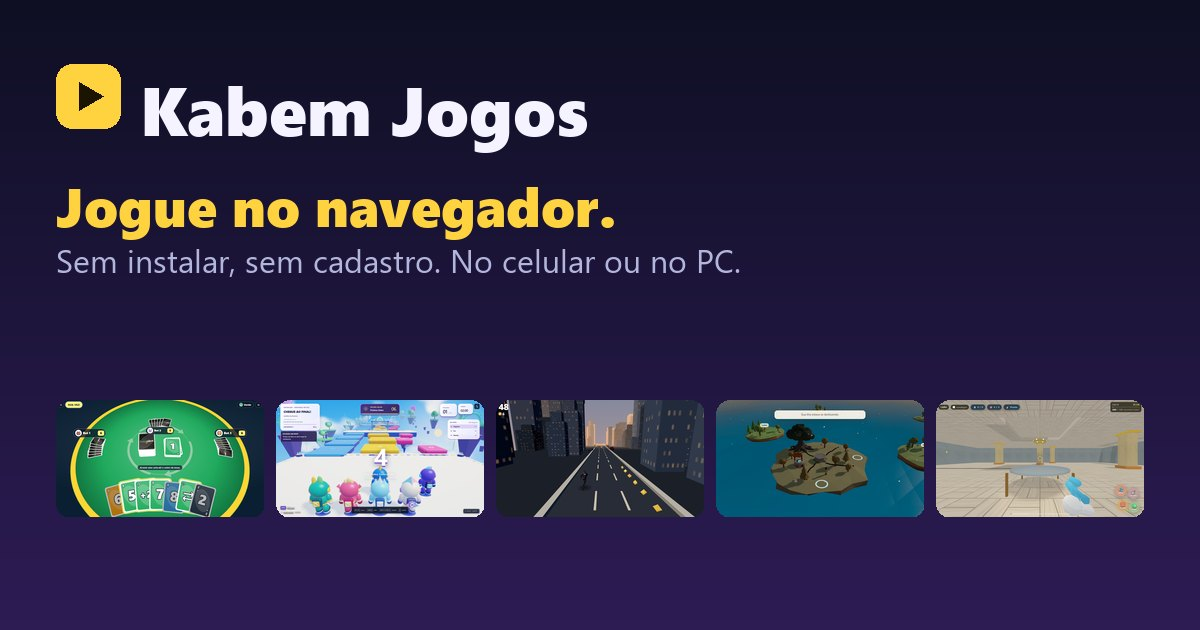
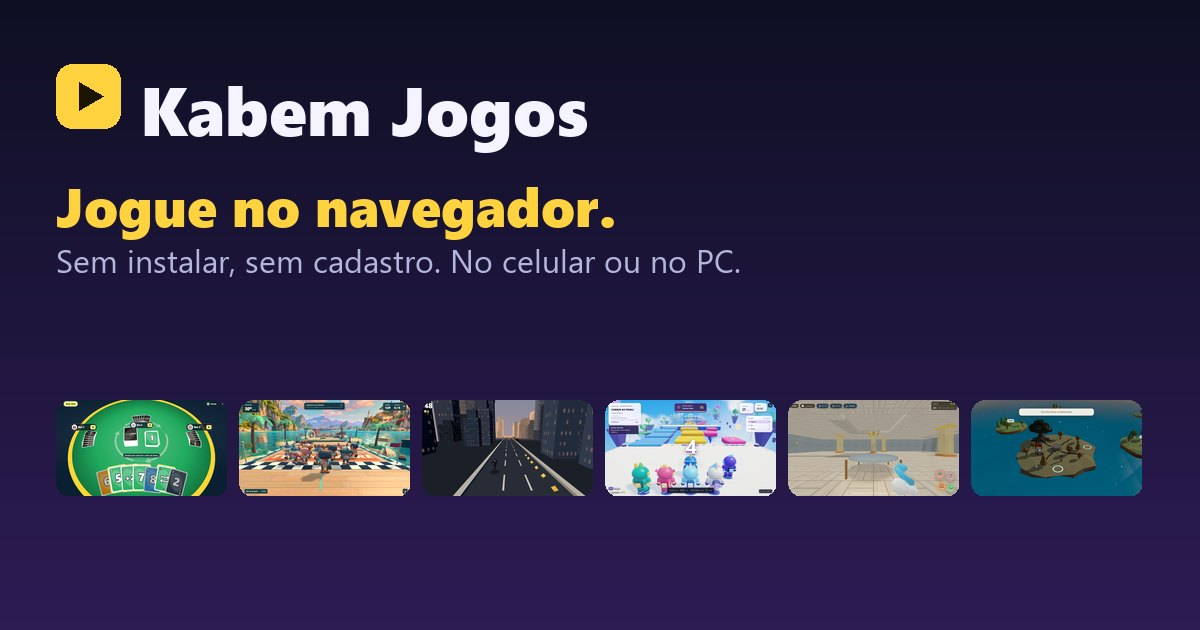
feat: adiciona o Turbo Maré à vitrine
Novo cartão (corrida 3D, solo contra bots ou sala online de até 6) com imagem
de partida. O jogo continua hospedado no GitHub Pages. A ordem passa a ter o
Turbo Maré em segundo lugar, e o último cartão ocupa a linha inteira quando
sobra sozinho. A prévia de compartilhamento ganha a sexta miniatura.

Changed region(s): [[0.0308, 0.6333, 0.9558, 0.8444]]

diff --git a/index.html b/index.html
@@ -25,7 +25,7 @@
 <meta name="twitter:title" content="Kabem Jogos — jogue no navegador, sem instalar e sem cadastro">
 <meta name="twitter:description" content="Jogos de navegador em português: cartas, corrida, aventura e esconde-esconde em 3D. Toque e jogue em segundos, no celular ou no PC, sem instalar e sem cadastro.">
 <meta name="twitter:image" content="https://jogos.kabemmanager.online/img/og.jpg">
-<script type="application/ld+json">{"@context":"https://schema.org","@graph":[{"@type":"WebSite","@id":"https://jogos.kabemmanager.online/#site","name":"Kabem Jogos","url":"https://jogos.kabemmanager.online/","description":"Jogos de navegador em português: cartas, corrida, aventura e esconde-esconde em 3D. Toque e jogue em segundos, no celular ou no PC, sem instalar e sem cadastro.","inLanguage":"pt-BR"},{"@type":"ItemList","name":"Jogos disponíveis","itemListElement":[{"@type":"ListItem","position":1,"item":{"@type":"VideoGame","name":"Kabemjunto","description":"Jogo de cartas com temática brasileira para 2 a 10 jogadores. Descarte todas as cartas antes dos outros, acumule ataques, use o Silêncio do 7 e intercepte a jogada de alguém com uma carta idêntica (Corta-Frente). Jogue contra bots agora ou crie uma sala online.","url":"https://kabemjunto.kabemmanager.online/","image":"https://jogos.kabemmanager.online/img/kabemjunto.webp","genre":["Cartas","Multijogador"],"inLanguage":"pt-BR","applicationCategory":"Game","operatingSystem":"Navegador (web)","gamePlatform":"Navegador (web)","playMode":["SinglePlayer","MultiPlayer"]}},{"@type":"ListItem","position":2,"item":{"@type":"VideoGame","name":"Circuito das Fendas","description":"Corra por 12 checkpoints, escolha entre três rotas, desvie dos obstáculos e alterne entre os estados Solar e Lunar. Dispute contra bots ou online e suba no ranking.","url":"https://jogo.kabemmanager.online/","image":"https://jogos.kabemmanager.online/img/fendas.webp","genre":["Corrida","Plataforma","Multijogador"],"inLanguage":"pt-BR","applicationCategory":"Game","operatingSystem":"Navegador (web)","gamePlatform":"Navegador (web)","playMode":["SinglePlayer","MultiPlayer"]}},{"@type":"ListItem","position":3,"item":{"@type":"VideoGame","name":"Corrida Sem Fim","description":"Corredor infinito em 3D feito para celular: deslize para trocar de pista, pule, role por baixo dos obstáculos e colete moedas desviando dos carros.","url":"https://corrida.kabemmanager.online/","image":"https://jogos.kabemmanager.online/img/corrida.webp","genre":["Corredor infinito","Ação"],"inLanguage":"pt-BR","applicationCategory":"Game","operatingSystem":"Navegador (web)","gamePlatform":"Navegador (web)","playMode":["SinglePlayer"]}},{"@type":"ListItem","position":4,"item":{"@type":"VideoGame","name":"Raízes Cruzadas","description":"Jogo educacional em 3D, para um jogador, sobre por que amar a Deus sobre todas as coisas. Leve água a quem não pode retribuir, escolha o que fica no centro da sua ilha e descubra o que sempre correu por baixo de todas elas. Tema cristão.","url":"https://raizes.kabemmanager.online/","image":"https://jogos.kabemmanager.online/img/raizes.webp","genre":["Aventura","Educacional"],"inLanguage":"pt-BR","applicationCategory":"Game","operatingSystem":"Navegador (web)","gamePlatform":"Navegador (web)","playMode":["SinglePlayer"]}},{"@type":"ListItem","position":5,"item":{"@type":"VideoGame","name":"Esconde ou Morre","description":"Como Camaleão, grude nas superfícies e pinte o corpo com a cor do ambiente para sobreviver ao Caçador. Como Caçador, procure os Camaleões com lanterna, arma de água e Scanner. No modo Online, a sala espera jogadores por 30 segundos e completa as vagas com IA.","url":"https://esconde.kabemmanager.online/","image":"https://jogos.kabemmanager.online/img/esconde.webp","genre":["Esconde-esconde","Ação","Multijogador"],"inLanguage":"pt-BR","applicationCategory":"Game","operatingSystem":"Navegador (web)","gamePlatform":"Navegador (web)","playMode":["SinglePlayer","MultiPlayer"]}}]}]}</script>
+<script type="application/ld+json">{"@context":"https://schema.org","@graph":[{"@type":"WebSite","@id":"https://jogos.kabemmanager.online/#site","name":"Kabem Jogos","url":"https://jogos.kabemmanager.online/","description":"Jogos de navegador em português: cartas, corrida, aventura e esconde-esconde em 3D. Toque e jogue em segundos, no celular ou no PC, sem instalar e sem cadastro.","inLanguage":"pt-BR"},{"@type":"ItemList","name":"Jogos disponíveis","itemListElement":[{"@type":"ListItem","position":1,"item":{"@type":"VideoGame","name":"Kabemjunto","description":"Jogo de cartas com temática brasileira para 2 a 10 jogadores. Descarte todas as cartas antes dos outros, acumule ataques, use o Silêncio do 7 e intercepte a jogada de alguém com uma carta idêntica (Corta-Frente). Jogue contra bots agora ou crie uma sala online.","url":"https://kabemjunto.kabemmanager.online/","image":"https://jogos.kabemmanager.online/img/kabemjunto.webp","genre":["Cartas","Multijogador"],"inLanguage":"pt-BR","applicationCategory":"Game","operatingSystem":"Navegador (web)","gamePlatform":"Navegador (web)","playMode":["SinglePlayer","MultiPlayer"]}},{"@type":"ListItem","position":2,"item":{"@type":"VideoGame","name":"Turbo Maré","description":"Corrida 3D pelo Circuito do Kraken: dez pilotos largam em um píer tropical e os seis primeiros a cruzar a linha em até 90 segundos se classificam. Pule, mergulhe, pegue os anéis de turbo, escolha entre Lontra, Tubarão, Axolote ou Marujo e chame amigos para uma sala online na Copa das Marés.","url":"https://alexandremocmg.github.io/turbo_mare/","image":"https://jogos.kabemmanager.online/img/turbo.webp","genre":["Corrida","Ação","Multijogador"],"inLanguage":"pt-BR","applicationCategory":"Game","operatingSystem":"Navegador (web)","gamePlatform":"Navegador (web)","playMode":["SinglePlayer","MultiPlayer"]}},{"@type":"ListItem","position":3,"item":{"@type":"VideoGame","name":"Corrida Sem Fim","description":"Corredor infinito em 3D feito para celular: deslize para trocar de pista, pule, role por baixo dos obstáculos e colete moedas desviando dos carros.","url":"https://corrida.kabemmanager.online/","image":"https://jogos.kabemmanager.online/img/corrida.webp","genre":["Corredor infinito","Ação"],"inLanguage":"pt-BR","applicationCategory":"Game","operatingSystem":"Navegador (web)","gamePlatform":"Navegador (web)","playMode":["SinglePlayer"]}},{"@type":"ListItem","position":4,"item":{"@type":"VideoGame","name":"Circuito das Fendas","description":"Corra por 12 checkpoints, escolha entre três rotas, desvie dos obstáculos e alterne entre os estados Solar e Lunar. Dispute contra bots ou online e suba no ranking.","url":"https://jogo.kabemmanager.online/","image":"https://jogos.kabemmanager.online/img/fendas.webp","genre":["Corrida","Plataforma","Multijogador"],"inLanguage":"pt-BR","applicationCategory":"Game","operatingSystem":"Navegador (web)","gamePlatform":"Navegador (web)","playMode":["SinglePlayer","MultiPlayer"]}},{"@type":"ListItem","position":5,"item":{"@type":"VideoGame","name":"Esconde ou Morre","description":"Como Camaleão, grude nas superfícies e pinte o corpo com a cor do ambiente para sobreviver ao Caçador. Como Caçador, procure os Camaleões com lanterna, arma de água e Scanner. No modo Online, a sala espera jogadores por 30 segundos e completa as vagas com IA.","url":"https://esconde.kabemmanager.online/","image":"https://jogos.kabemmanager.online/img/esconde.webp","genre":["Esconde-esconde","Ação","Multijogador"],"inLanguage":"pt-BR","applicationCategory":"Game","operatingSystem":"Navegador (web)","gamePlatform":"Navegador (web)","playMode":["SinglePlayer","MultiPlayer"]}},{"@type":"ListItem","position":6,"item":{"@type":"VideoGame","name":"Raízes Cruzadas","description":"Jogo educacional em 3D, para um jogador, sobre por que amar a Deus sobre todas as coisas. Leve água a quem não pode retribuir, escolha o que fica no centro da sua ilha e descubra o que sempre correu por baixo de todas elas. Tema cristão.","url":"https://raizes.kabemmanager.online/","image":"https://jogos.kabemmanager.online/img/raizes.webp","genre":["Aventura","Educacional"],"inLanguage":"pt-BR","applicationCategory":"Game","operatingSystem":"Navegador (web)","gamePlatform":"Navegador (web)","playMode":["SinglePlayer"]}}]}]}</script>
 <style>
 :root{--bg:#0e0f23;--sup:#171a38;--sup2:#1f2347;--texto:#f4f3ff;--mudo:#b3b6dc;--amarelo:#ffd23f;--tinta:#1b1400;--verde:#2bd48a;--linha:rgba(255,255,255,.1);--raio:20px}
 *{box-sizing:border-box}
@@ -80,9 +80,9 @@ footer{padding:26px 0 40px;color:var(--mudo);font-size:.88rem}
 .aviso{position:fixed;left:50%;bottom:22px;transform:translate(-50%,20px);opacity:0;padding:12px 18px;border-radius:12px;background:#fff;color:#111;font-weight:700;box-shadow:0 10px 30px rgba(0,0,0,.4);transition:.25s;pointer-events:none}
 .aviso.ver{opacity:1;transform:translate(-50%,0)}
 @media(min-width:880px){
- .destaque{grid-column:1/-1;flex-direction:row}
- .destaque .capa{flex:1.15;aspect-ratio:auto;min-height:340px}
- .destaque .corpo{flex:1;justify-content:center;padding:26px 28px}
+ .destaque,.grade>.cartao:last-child:nth-child(even){grid-column:1/-1;flex-direction:row}
+ .destaque .capa,.grade>.cartao:last-child:nth-child(even) .capa{flex:1.15;aspect-ratio:auto;min-height:340px}
+ .destaque .corpo,.grade>.cartao:last-child:nth-child(even) .corpo{flex:1;justify-content:center;padding:26px 28px}
  .destaque h3{font-size:2rem}
  .destaque .desc{font-size:1.02rem}
 }
@@ -139,23 +139,23 @@ footer{padding:26px 0 40px;color:var(--mudo);font-size:.88rem}
           </div>
         </div>
       </article>
-      <article class="cartao" id="fendas">
-        <a class="capa" href="https://jogo.kabemmanager.online/" aria-label="Jogar Circuito das Fendas" tabindex="-1">
-          <img src="img/fendas.webp" alt="Largada do Circuito das Fendas: cinco personagens coloridos diante de uma pista flutuante, com a contagem 4" width="800" height="450" fetchpriority="high">
+      <article class="cartao" id="turbo">
+        <a class="capa" href="https://alexandremocmg.github.io/turbo_mare/" aria-label="Jogar Turbo Maré" tabindex="-1">
+          <img src="img/turbo.webp" alt="Dez pilotos na linha de largada de um píer tropical, com palmeiras, ilhas e um farol ao fundo" width="800" height="450" fetchpriority="high">
         </a>
         <div class="corpo">
-          <div class="etiquetas"><span class="modo">Contra bots</span><span class="modo">Online</span><span class="selo">Beta</span></div>
-          <h3>Circuito das Fendas</h3>
-          <p class="gancho">Uma corrida de 120 segundos por um festival interdimensional.</p>
-          <p class="desc">Corra por 12 checkpoints, escolha entre três rotas, desvie dos obstáculos e alterne entre os estados Solar e Lunar. Dispute contra bots ou online e suba no ranking.</p>
+          <div class="etiquetas"><span class="modo">Contra bots</span><span class="modo">Online</span></div>
+          <h3>Turbo Maré</h3>
+          <p class="gancho">Pegue os anéis de turbo e escape dos tentáculos.</p>
+          <p class="desc">Corrida 3D pelo Circuito do Kraken: dez pilotos largam em um píer tropical e os seis primeiros a cruzar a linha em até 90 segundos se classificam. Pule, mergulhe, pegue os anéis de turbo, escolha entre Lontra, Tubarão, Axolote ou Marujo e chame amigos para uma sala online na Copa das Marés.</p>
           <ul class="meta">
-            <li><svg class="ic" viewBox="0 0 24 24" width="18" height="18" aria-hidden="true" focusable="false"><path d="M16 11a3 3 0 1 0-6 0 3 3 0 0 0 6 0ZM6 20a6 6 0 0 1 12 0" fill="none" stroke="currentColor" stroke-width="1.8" stroke-linecap="round" stroke-linejoin="round"/></svg>Até 6 na pista</li>
-            <li><svg class="ic" viewBox="0 0 24 24" width="18" height="18" aria-hidden="true" focusable="false"><path d="M12 7v5l3 2M12 3a9 9 0 1 0 0 18 9 9 0 0 0 0-18Z" fill="none" stroke="currentColor" stroke-width="1.8" stroke-linecap="round" stroke-linejoin="round"/></svg>120 s por corrida</li>
-            <li><svg class="ic" viewBox="0 0 24 24" width="18" height="18" aria-hidden="true" focusable="false"><path d="M8 3h8a1 1 0 0 1 1 1v16a1 1 0 0 1-1 1H8a1 1 0 0 1-1-1V4a1 1 0 0 1 1-1ZM11 18h2" fill="none" stroke="currentColor" stroke-width="1.8" stroke-linecap="round" stroke-linejoin="round"/></svg>PC (teclado)</li>
+            <li><svg class="ic" viewBox="0 0 24 24" width="18" height="18" aria-hidden="true" focusable="false"><path d="M16 11a3 3 0 1 0-6 0 3 3 0 0 0 6 0ZM6 20a6 6 0 0 1 12 0" fill="none" stroke="currentColor" stroke-width="1.8" stroke-linecap="round" stroke-linejoin="round"/></svg>1 a 6 jogadores</li>
+            <li><svg class="ic" viewBox="0 0 24 24" width="18" height="18" aria-hidden="true" focusable="false"><path d="M12 7v5l3 2M12 3a9 9 0 1 0 0 18 9 9 0 0 0 0-18Z" fill="none" stroke="currentColor" stroke-width="1.8" stroke-linecap="round" stroke-linejoin="round"/></svg>90 s por corrida</li>
+            <li><svg class="ic" viewBox="0 0 24 24" width="18" height="18" aria-hidden="true" focusable="false"><path d="M8 3h8a1 1 0 0 1 1 1v16a1 1 0 0 1-1 1H8a1 1 0 0 1-1-1V4a1 1 0 0 1 1-1ZM11 18h2" fill="none" stroke="currentColor" stroke-width="1.8" stroke-linecap="round" stroke-linejoin="round"/></svg>Celular e PC</li>
           </ul>
           <div class="acoes">
-            <a class="jogar" href="https://jogo.kabemmanager.online/">Jogar Circuito das Fendas</a>
-            <button class="compartilhar" type="button" hidden data-nome="Circuito das Fendas" data-gancho="Uma corrida de 120 segundos por um festival interdimensional." data-url="https://jogo.kabemmanager.online/">Compartilhar</button>
+            <a class="jogar" href="https://alexandremocmg.github.io/turbo_mare/">Jogar Turbo Maré</a>
+            <button class="compartilhar" type="button" hidden data-nome="Turbo Maré" data-gancho="Pegue os anéis de turbo e escape dos tentáculos." data-url="https://alexandremocmg.github.io/turbo_mare/">Compartilhar</button>
           </div>
         </div>
       </article>
@@ -179,23 +179,23 @@ footer{padding:26px 0 40px;color:var(--mudo);font-size:.88rem}
           </div>
         </div>
       </article>
-      <article class="cartao" id="raizes">
-        <a class="capa" href="https://raizes.kabemmanager.online/" aria-label="Jogar Raízes Cruzadas" tabindex="-1">
-          <img src="img/raizes.webp" alt="Uma ilha flutuante com uma árvore escura, um poço e um personagem, cercada por outras ilhas" width="800" height="450" loading="lazy" decoding="async">
+      <article class="cartao" id="fendas">
+        <a class="capa" href="https://jogo.kabemmanager.online/" aria-label="Jogar Circuito das Fendas" tabindex="-1">
+          <img src="img/fendas.webp" alt="Largada do Circuito das Fendas: cinco personagens coloridos diante de uma pista flutuante, com a contagem 4" width="800" height="450" loading="lazy" decoding="async">
         </a>
         <div class="corpo">
-          <div class="etiquetas"><span class="modo">Solo</span></div>
-          <h3>Raízes Cruzadas</h3>
-          <p class="gancho">Uma aventura sobre o que ocupa o centro da sua ilha.</p>
-          <p class="desc">Jogo educacional em 3D, para um jogador, sobre por que amar a Deus sobre todas as coisas. Leve água a quem não pode retribuir, escolha o que fica no centro da sua ilha e descubra o que sempre correu por baixo de todas elas. Tema cristão.</p>
+          <div class="etiquetas"><span class="modo">Contra bots</span><span class="modo">Online</span><span class="selo">Beta</span></div>
+          <h3>Circuito das Fendas</h3>
+          <p class="gancho">Uma corrida de 120 segundos por um festival interdimensional.</p>
+          <p class="desc">Corra por 12 checkpoints, escolha entre três rotas, desvie dos obstáculos e alterne entre os estados Solar e Lunar. Dispute contra bots ou online e suba no ranking.</p>
           <ul class="meta">
-            <li><svg class="ic" viewBox="0 0 24 24" width="18" height="18" aria-hidden="true" focusable="false"><path d="M16 11a3 3 0 1 0-6 0 3 3 0 0 0 6 0ZM6 20a6 6 0 0 1 12 0" fill="none" stroke="currentColor" stroke-width="1.8" stroke-linecap="round" stroke-linejoin="round"/></svg>1 jogador</li>
-            <li><svg class="ic" viewBox="0 0 24 24" width="18" height="18" aria-hidden="true" focusable="false"><path d="M12 7v5l3 2M12 3a9 9 0 1 0 0 18 9 9 0 0 0 0-18Z" fill="none" stroke="currentColor" stroke-width="1.8" stroke-linecap="round" stroke-linejoin="round"/></svg>15 a 20 min</li>
-            <li><svg class="ic" viewBox="0 0 24 24" width="18" height="18" aria-hidden="true" focusable="false"><path d="M8 3h8a1 1 0 0 1 1 1v16a1 1 0 0 1-1 1H8a1 1 0 0 1-1-1V4a1 1 0 0 1 1-1ZM11 18h2" fill="none" stroke="currentColor" stroke-width="1.8" stroke-linecap="round" stroke-linejoin="round"/></svg>Celular e PC</li>
+            <li><svg class="ic" viewBox="0 0 24 24" width="18" height="18" aria-hidden="true" focusable="false"><path d="M16 11a3 3 0 1 0-6 0 3 3 0 0 0 6 0ZM6 20a6 6 0 0 1 12 0" fill="none" stroke="currentColor" stroke-width="1.8" stroke-linecap="round" stroke-linejoin="round"/></svg>Até 6 na pista</li>
+            <li><svg class="ic" viewBox="0 0 24 24" width="18" height="18" aria-hidden="true" focusable="false"><path d="M12 7v5l3 2M12 3a9 9 0 1 0 0 18 9 9 0 0 0 0-18Z" fill="none" stroke="currentColor" stroke-width="1.8" stroke-linecap="round" stroke-linejoin="round"/></svg>120 s por corrida</li>
+            <li><svg class="ic" viewBox="0 0 24 24" width="18" height="18" aria-hidden="true" focusable="false"><path d="M8 3h8a1 1 0 0 1 1 1v16a1 1 0 0 1-1 1H8a1 1 0 0 1-1-1V4a1 1 0 0 1 1-1ZM11 18h2" fill="none" stroke="currentColor" stroke-width="1.8" stroke-linecap="round" stroke-linejoin="round"/></svg>PC (teclado)</li>
           </ul>
           <div class="acoes">
-            <a class="jogar" href="https://raizes.kabemmanager.online/">Jogar Raízes Cruzadas</a>
-            <button class="compartilhar" type="button" hidden data-nome="Raízes Cruzadas" data-gancho="Uma aventura sobre o que ocupa o centro da sua ilha." data-url="https://raizes.kabemmanager.online/">Compartilhar</button>
+            <a class="jogar" href="https://jogo.kabemmanager.online/">Jogar Circuito das Fendas</a>
+            <button class="compartilhar" type="button" hidden data-nome="Circuito das Fendas" data-gancho="Uma corrida de 120 segundos por um festival interdimensional." data-url="https://jogo.kabemmanager.online/">Compartilhar</button>
           </div>
         </div>
       </article>
@@ -216,6 +216,26 @@ footer{padding:26px 0 40px;color:var(--mudo);font-size:.88rem}
           <div class="acoes">
             <a class="jogar" href="https://esconde.kabemmanager.online/">Jogar Esconde ou Morre</a>
             <button class="compartilhar" type="button" hidden data-nome="Esconde ou Morre" data-gancho="Camufle-se ou cace." data-url="https://esconde.kabemmanager.online/">Compartilhar</button>
+          </div>
+        </div>
+      </article>
+      <article class="cartao" id="raizes">
+        <a class="capa" href="https://raizes.kabemmanager.online/" aria-label="Jogar Raízes Cruzadas" tabindex="-1">
+          <img src="img/raizes.webp" alt="Uma ilha flutuante com uma árvore escura, um poço e um personagem, cercada por outras ilhas" width="800" height="450" loading="lazy" decoding="async">
+        </a>
+        <div class="corpo">
+          <div class="etiquetas"><span class="modo">Solo</span></div>
+          <h3>Raízes Cruzadas</h3>
+          <p class="gancho">Uma aventura sobre o que ocupa o centro da sua ilha.</p>
+          <p class="desc">Jogo educacional em 3D, para um jogador, sobre por que amar a Deus sobre todas as coisas. Leve água a quem não pode retribuir, escolha o que fica no centro da sua ilha e descubra o que sempre correu por baixo de todas elas. Tema cristão.</p>
+          <ul class="meta">
+            <li><svg class="ic" viewBox="0 0 24 24" width="18" height="18" aria-hidden="true" focusable="false"><path d="M16 11a3 3 0 1 0-6 0 3 3 0 0 0 6 0ZM6 20a6 6 0 0 1 12 0" fill="none" stroke="currentColor" stroke-width="1.8" stroke-linecap="round" stroke-linejoin="round"/></svg>1 jogador</li>
+            <li><svg class="ic" viewBox="0 0 24 24" width="18" height="18" aria-hidden="true" focusable="false"><path d="M12 7v5l3 2M12 3a9 9 0 1 0 0 18 9 9 0 0 0 0-18Z" fill="none" stroke="currentColor" stroke-width="1.8" stroke-linecap="round" stroke-linejoin="round"/></svg>15 a 20 min</li>
+            <li><svg class="ic" viewBox="0 0 24 24" width="18" height="18" aria-hidden="true" focusable="false"><path d="M8 3h8a1 1 0 0 1 1 1v16a1 1 0 0 1-1 1H8a1 1 0 0 1-1-1V4a1 1 0 0 1 1-1ZM11 18h2" fill="none" stroke="currentColor" stroke-width="1.8" stroke-linecap="round" stroke-linejoin="round"/></svg>Celular e PC</li>
+          </ul>
+          <div class="acoes">
+            <a class="jogar" href="https://raizes.kabemmanager.online/">Jogar Raízes Cruzadas</a>
+            <button class="compartilhar" type="button" hidden data-nome="Raízes Cruzadas" data-gancho="Uma aventura sobre o que ocupa o centro da sua ilha." data-url="https://raizes.kabemmanager.online/">Compartilhar</button>
           </div>
         </div>
       </article>

diff --git a/tools/imagens.py b/tools/imagens.py
@@ -19,10 +19,11 @@ IMG = RAIZ / "img"
 # id do jogo (games.json) -> nome do arquivo de captura (sem extensão)
 CAPTURAS = {
     "kabemjunto": "kabemjunto",
-    "fendas": "fendas",
+    "turbo": "turbo",
     "corrida": "corrida",
-    "raizes": "raizes",
+    "fendas": "fendas",
     "esconde": "esconde-cacador",
+    "raizes": "raizes",
 }
 
 BG_TOPO = (14, 15, 35)
@@ -76,10 +77,12 @@ def main(pasta):
     d.text((140, 62), "Kabem Jogos", font=fonte("seguibl.ttf", 68), fill=TEXTO)
     d.text((56, 168), "Jogue no navegador.", font=fonte("seguibl.ttf", 54), fill=AMARELO)
     d.text((56, 238), "Sem instalar, sem cadastro. No celular ou no PC.", font=fonte("segoeui.ttf", 32), fill=MUDO)
-    largura, vão, y = 208, 12, 400
+    vão, y = 12, 400
+    largura = (1088 - vão * (len(miniaturas) - 1)) // len(miniaturas)
+    altura = round(largura * 9 / 16)
     x = 56
     for mini in miniaturas:
-        pequena = arredondar(mini.resize((largura, 117), Image.LANCZOS), 14)
+        pequena = arredondar(mini.resize((largura, altura), Image.LANCZOS), 14)
         og.alpha_composite(pequena, (x, y))
         x += largura + vão
     og.convert("RGB").save(IMG / "og.jpg", "JPEG", quality=86, optimize=True)
